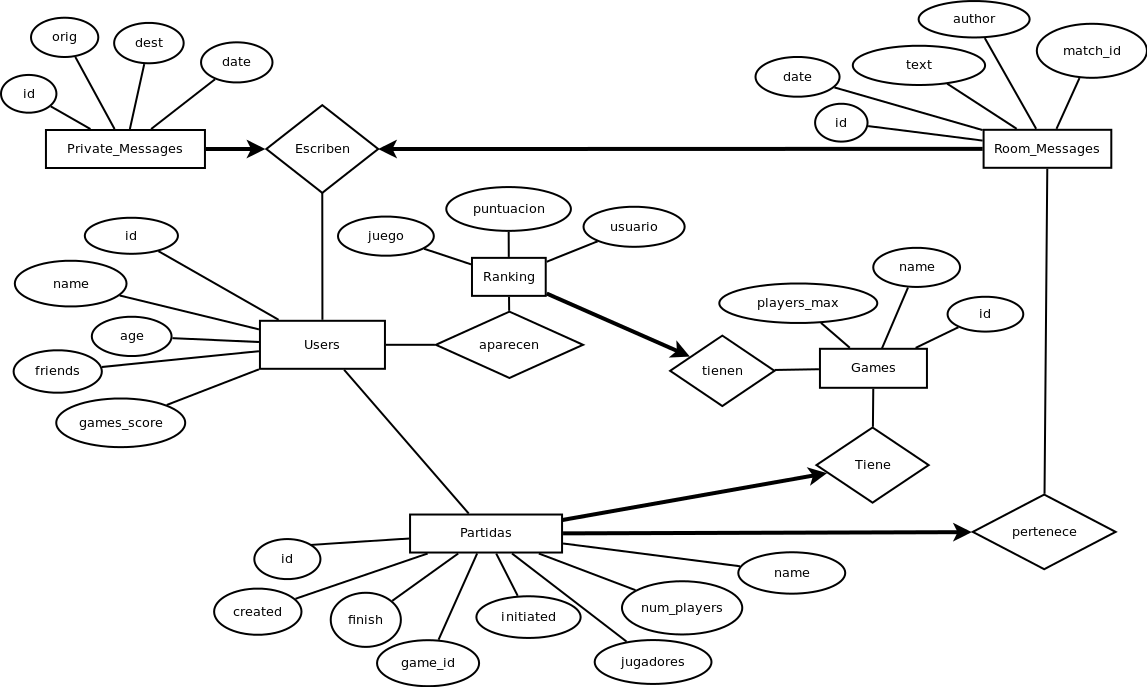
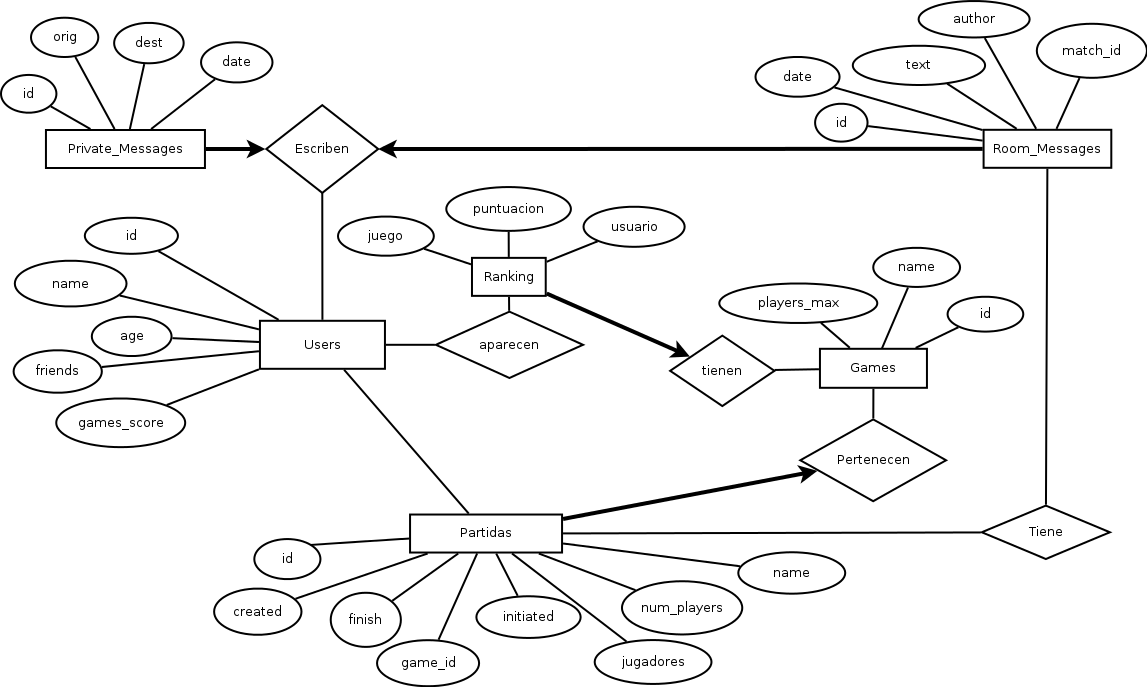
Añadiendo bbdd ranking, reorganizado codigo, actualizado diagrama er

diff --git a/prototipo-5/client/client.js b/prototipo-5/client/client.js
@@ -49,14 +49,12 @@ $(document).ready(function() {
 		});
 });
 
+
+////// RELLENAR PLANTILLAS /////////
+
 //Ordena los amigos alfabeticamente
 Template.userstemp.users = function(){
 	return Meteor.users.find({},{sort:{username:1}});
-}
-
-//Encuentra usuarios conectados
-Template.loguserstemp.logusers = function(){
-	return Meteor.users.find({"services.resume.loginTokens" : {$not : []}});
 }
 
 //Encuentra juegos
@@ -64,14 +62,39 @@ Template.gamestemp.games=function(){
 	return Games.find();
 }
 
-//Encuentra partidas
-Template.matchestemp.matches = function(){
-	return Partidas.find();
+//Encuentra juegos para ranking
+Template.gamesrankingtemp.games=function(){
+	return Games.find();
+}
+
+//Mostramos puntuaciones para un juego
+Template.gamesrankingtemp.events = {
+	'click .linkgameranking':function(event){
+		$("#ranking").children().hide();
+	}
+}
+
+// Mostramos puntuaciones para un usuario
+Template.userstemp.events = {
+	'click .linkuserranking':function(event){
+		$("#ranking").children().hide();
+		//console.log(Games.findOne({_id : Session.get('game_id')}).name);//$(this)[0]._id);
+	}
+}
+
+//Encuentra usuarios conectados
+Template.loguserstemp.logusers = function(){
+	return Meteor.users.find({"services.resume.loginTokens" : {$not : []}});
 }
 
 //Carga mensajes del chat
 Template.messagestemp.messages=function(){
 	return Messages.find();
+}
+
+//Encuentra partidas
+Template.matchestemp.matches = function(){
+	return Partidas.find();
 }
 
 //Carga el nombre del juego
@@ -106,6 +129,10 @@ Template.roomplayerstemp.players=function(){
 	return players_names;
 }
 
+
+
+///////////// SUSBSCRIPCIONES ////////////////
+
 //Subscripcion a lista de usuarios
 var usersLoaded = false;
 Meteor.subscribe("users", function () {
@@ -130,6 +157,16 @@ Deps.autorun(function () {
 	Meteor.subscribe("messages", current_match_id);
 });
 
+//Subscripción selectiva a ranking
+/*Deps.autorun(function () {
+	var selected_game_id = Session.get("usuario")
+	var selected_user_id = Session.get("juego")
+	Meteor.subscribe("ranking", selected_game_id, selected_user_id),;
+});*/
+
+
+
+
 //Cambios reactivos de la interfaz
 Deps.autorun(function () {
 
@@ -144,16 +181,7 @@ Deps.autorun(function () {
 	}
 });
 
-
-
-
-
-
-
-
-
-
-//Inserta mensajes del chat
+//Inserta mensajes del chat de sala
 Template.input.events = {
 	'keydown input#message':function(event){
 		if(event.which==13){
@@ -178,12 +206,7 @@ Template.input.events = {
 
 
 
-
-
-
-
-
-
+/////////// CHAT PRIVADO //////////
 
 //Pinta lista de amigos conectados, tiene que ser reactivo porque no esta disponible desde el comienzo
 Deps.autorun(function () {
@@ -209,12 +232,6 @@ Deps.autorun(function () {
 		}	
 	}		
 });
-
-
-
-
-
-
 
 var mychats = new Array();
 //Cada vez que hago click en un amigo conectado se inserta una pestaña de chat
@@ -254,15 +271,6 @@ $(document).on("click", ".closechattab", function() {
 		if (mychats.length==0)
 			$("#chatTabs").hide();
 });
-
-
-
-
-
-
-
-
-
 
 
 
@@ -308,6 +316,7 @@ function searchUsers(user) {
 		$.ambiance({message: "User: " +user+ " not found!", type: "error", fade: false});
 	}
 }
+
 //comprueba si la persona que te quiere agregar es amigo
 function isAmigo (id) {
 	amigos = Meteor.user().amigos;		
@@ -358,15 +367,7 @@ function deleteFriend(idUser,idAborrar) {
 
 
 
-
-
-
-
-
-
-
-
-
+//////// JUEGOS ////////
 
 // Abrimos sesión en uno de los juegos
 Template.gamestemp.events = {
@@ -421,7 +422,7 @@ Template.matchestemp.events = {
 			else if (Games.findOne({_id : Session.get('game_id')}).name=="Froot_Wars")
 				$('#frootwarscontainer').show();
 			else if (Games.findOne({_id :Session.get("game_id")}).name=="Clarcassonne")
-					$('#clarcassonnecontainer').show();
+				$('#clarcassonnecontainer').show();
 			if(!already_into){
 				Partidas.update({_id : Session.get('match_id')}, {$push: {jugadores: Meteor.userId()},$inc: {num_players: 1}});
 			}
@@ -461,15 +462,6 @@ Template.roomgametemp.events = {
 		$('#matches').fadeIn();
 	}
 };
-
-
-
-
-
-
-
-
-
 
 
 

diff --git a/prototipo-5/client/client.html b/prototipo-5/client/client.html
@@ -3,7 +3,10 @@
 </head>
 
 <body>
-        <div id="fb-root"></div>
+
+
+<div id="fb-root"></div>
+        
 <script>(function(d, s, id) {
   var js, fjs = d.getElementsByTagName(s)[0];
   if (d.getElementById(id)) return;
@@ -11,6 +14,9 @@
   js.src = "//connect.facebook.net/es_LA/all.js#xfbml=1";
   fjs.parentNode.insertBefore(js, fjs);
 }(document, 'script', 'facebook-jssdk'));</script>
+
+
+
 	<div id="div-login-button">{{loginButtons}}</div>
 	<div id="titulo" Size="6">X-ADrian</div>
 	<div class="fb-like" data-href="http://lowerlayers.meteor.com/" data-layout="standard" data-action="like" data-show-faces="true" data-share="true"></div>
@@ -43,7 +49,7 @@
 			<li><a href="#ranking">Ranking</a></li>
 		</ul>
 		<div id="juegos">{{> gamestemp}} {{> matchestemp}} {{> roomgametemp}}</div>
-		<div id="ranking">Por juegos:{{> gamestemp}} Por Usuarios: {{> userstemp}} </div>
+		<div id="ranking">{{> gamesrankingtemp}}{{> userstemp}} </div>
 	</div>
 </template>
 
@@ -77,11 +83,23 @@
 	</div>
 </template>
 
-<template name="userstemp">
-	<div id="users" >
+<template name="userstemp"> 
+	<div id="users">
+		Por Usuarios:
+		
 		{{# each users}}
-			<a href="#">{{username}}</a>
+			<a href="#" class="linkuserranking">{{username}}</a>
 		{{/each}}
+	</div>
+</template>
+
+<template name="gamesrankingtemp" >
+	<div id="gamesranking">
+		Por juegos:
+		
+		{{# each games}}
+			<a style ="cursor:pointer;text-decoration:underline;" class="linkgameranking">{{name}}</a><br>
+		{{/ each}}
 	</div>
 </template>
 
@@ -119,7 +137,6 @@
 			<a style ="cursor:pointer;text-decoration:underline;" class="linkgame">{{name}}</a><br>
 			<IMG  SRC ={{name}} class="linkgame"><br>
 			<div class="fb-like" data-href="http://localhost:3000" data-layout="standard" data-action="like" data-show-faces="true" data-share="true"></div>
-			
 		{{/ each}}
 	</div>
 
@@ -204,7 +221,6 @@
 		{{/each}}
 	</table>
 </template>
-
 
 <template name="listaAmigosOnlineTemp">
 	<div id="listaAmigosOnline">

diff --git a/prototipo-5/server/server.js b/prototipo-5/server/server.js
@@ -12,34 +12,29 @@ Meteor.startup(function () {
 	};
 });
 
-Meteor.publish("users", function() {
- 	
+Meteor.publish("users", function() { 	
 	return Meteor.users.find();
-
 });
 
-Meteor.publish("messages", function(current_match_id) {
- 	
+Meteor.publish("messages", function(current_match_id) {	
 	return Messages.find({match_id: current_match_id});
-
 });
 
 Meteor.publish("games", function() {
- 	
 	return Games.find();
-
 });
 
 // Para cada cliente, publica la lista de partidas del juego en el que abre sesión.
 Meteor.publish("partidas", function(current_game_id) {
-
 	return Partidas.find({"game_id" : current_game_id});	
-
 });
 
-
-
-
+/*Meteor.publish("ranking", function(selected_game_id,selected_user_id){
+	if (selected_game_id=="")
+		return Meteor.users.find({""});
+	else
+		retirn Games.find({""})
+});*/
 
 Meteor.users.allow({
     update: function(userId, docs, fields, modifier) {

diff --git a/prototipo-5/lib/models.js b/prototipo-5/lib/models.js
@@ -1,3 +1,4 @@
 Messages = new Meteor.Collection("messages");
 Games = new Meteor.Collection("games");
 Partidas = new Meteor.Collection("partidas");
+Ranking = new Meteor.Collection("ranking");
